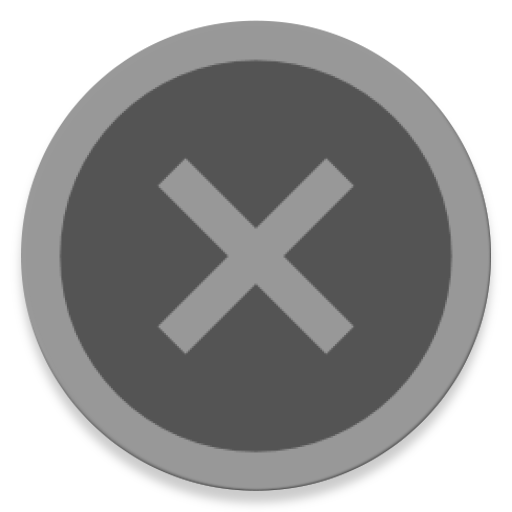
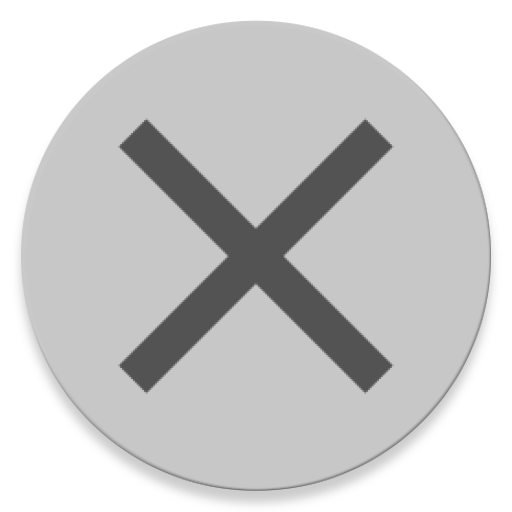
Fixed crash when episode element has no URL enclosure

diff --git a/app/src/main/java/me/bromen/podgo/EpisodeRecyclerAdapter.java b/app/src/main/java/me/bromen/podgo/EpisodeRecyclerAdapter.java
@@ -86,7 +86,7 @@ public class EpisodeRecyclerAdapter extends RecyclerView.Adapter<RecyclerView.Vi
                 title = episodeList.get(position - 1).getTitle();
                 url = episodeList.get(position - 1).getEnclosure().getURL().toString();
 
-            } catch (MalformedFeedException | MalformedURLException e) {
+            } catch (MalformedFeedException | MalformedURLException | NullPointerException e) {
                 e.printStackTrace();
             }
 
@@ -101,7 +101,10 @@ public class EpisodeRecyclerAdapter extends RecyclerView.Adapter<RecyclerView.Vi
 
             int img_id;
 
-            if (((MainActivity) context).isDownloading(podcastTitle, title)) {
+            if (url.equals("")) {
+                img_id = R.mipmap.ic_error;
+            }
+            else if (((MainActivity) context).isDownloading(podcastTitle, title)) {
                 img_id = R.mipmap.ic_cancel;
             }
             else if (PodcastFileUtils.isEpisodeDownloaded(context, podcastTitle, title)) {

diff --git a/app/src/main/java/me/bromen/podgo/MainActivity.java b/app/src/main/java/me/bromen/podgo/MainActivity.java
@@ -161,7 +161,10 @@ public class MainActivity extends AppCompatActivity
 
     @Override
     public void onDownloadPlaySelected(String podcastTitle, String episodeTitle, String episodeUrl) {
-        if (isDownloading(podcastTitle, episodeTitle)) {
+        if (episodeUrl.equals("")) {
+            Toast.makeText(this, "Invalid URL", Toast.LENGTH_SHORT).show();
+        }
+        else if (isDownloading(podcastTitle, episodeTitle)) {
             episodeDownloads.cancelDownload(this, podcastTitle, episodeTitle);
         }
         else if (PodcastFileUtils.isEpisodeDownloaded(this, podcastTitle, episodeTitle)) {
